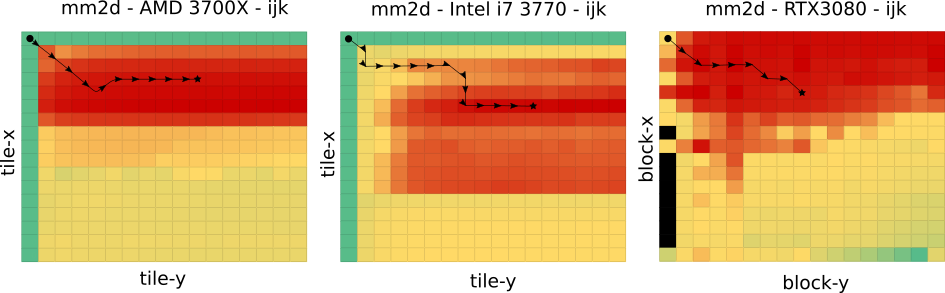
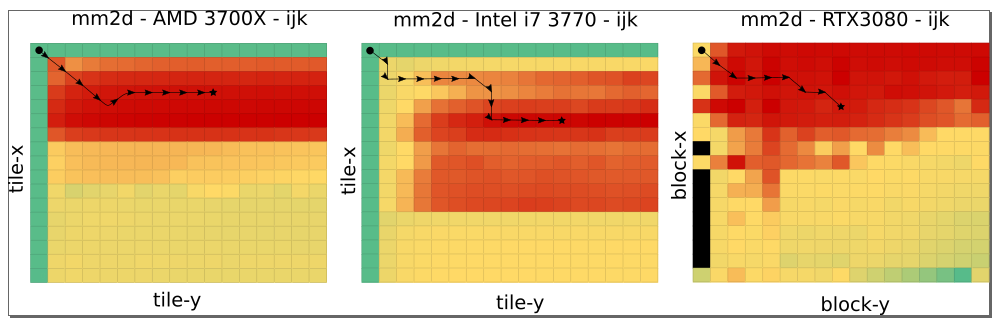
adding docs and images

diff --git a/README.md b/README.md
@@ -36,7 +36,7 @@
 TODO: introduction text here
 
 <p align="center">
-<img alt="examples of classifications" src="./docs/figs/droplet_maps.png" width="60%" height="auto"/>
+<img alt="examples of classifications" src="./docs/figs/droplet_maps.png" width="80%" height="auto"/>
 </p>
 
 ---
